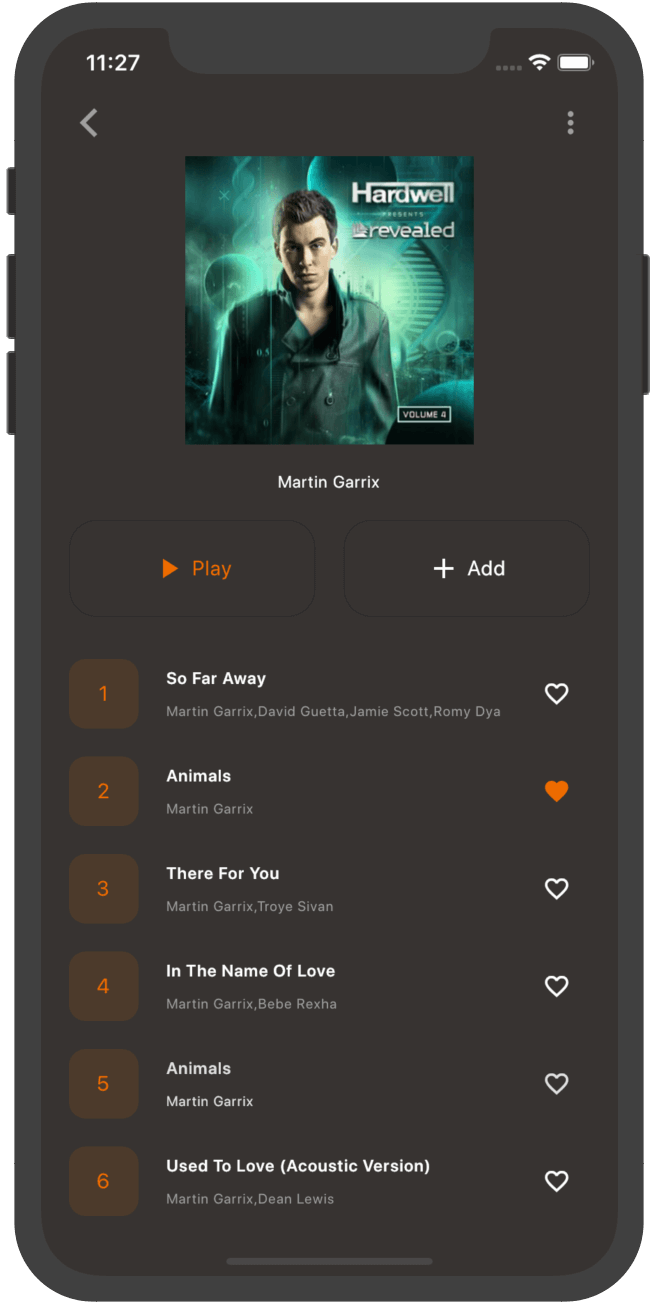
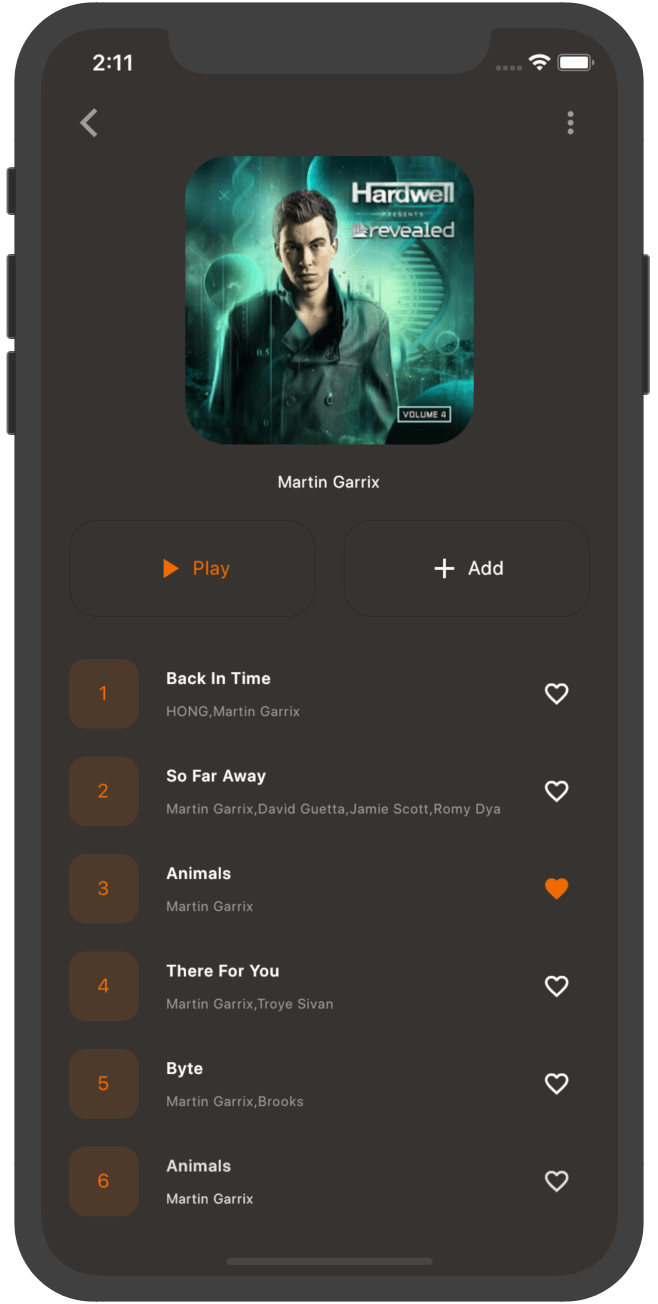
solve the song seek jumps sometimes and modify ui

diff --git a/lib/ui/widget/player_carousel.dart b/lib/ui/widget/player_carousel.dart
@@ -39,15 +39,16 @@ class Player extends StatefulWidget {
 class PlayerState extends State<Player> {
   Duration _duration;
   Duration _position;
-  num _slideValue;
   SongModel _songData;
   DownloadModel _downloadData;
+  bool _isSeeking = false;
 
   AudioPlayer _audioPlayer;
   AudioPlayerState _audioPlayerState;
   StreamSubscription _durationSubscription;
   StreamSubscription _positionSubscription;
   StreamSubscription _playerCompleteSubscription;
+  StreamSubscription _playerSeekSubscription;
   StreamSubscription _playerErrorSubscription;
   StreamSubscription _playerStateSubscription;
 
@@ -57,6 +58,7 @@ class PlayerState extends State<Player> {
     _positionSubscription?.cancel();
     _playerCompleteSubscription?.cancel();
     _playerErrorSubscription?.cancel();
+    _playerSeekSubscription?.cancel();
     _playerStateSubscription?.cancel();
     super.dispose();
   }
@@ -76,19 +78,11 @@ class PlayerState extends State<Player> {
     _audioPlayer = songData.audioPlayer;
     _position = _songData.position;
     _duration = _songData.duration;
-    _slideValue = _songData.slideValue;
     _durationSubscription = _audioPlayer.onDurationChanged.listen((duration) {
       if (!mounted) return;
       setState(() {
         _duration = duration;
-        _slideValue = (_position != null &&
-                _duration != null &&
-                _position.inSeconds > 0 &&
-                _position.inSeconds < _duration.inSeconds)
-            ? _position.inSeconds / _duration.inSeconds
-            : 0.0;
         _songData.setDuration(_duration);
-        _songData.setSlideValue(_slideValue);
       });
 
       // TODO implemented for iOS, waiting for android impl
@@ -112,16 +106,10 @@ class PlayerState extends State<Player> {
     _positionSubscription =
         _audioPlayer.onAudioPositionChanged.listen((position) {
       if (!mounted) return;
+      if (_isSeeking) return;
       setState(() {
         _position = position;
-        _slideValue = (_position != null &&
-                _duration != null &&
-                _position.inSeconds > 0 &&
-                _position.inSeconds < _duration.inSeconds)
-            ? _position.inSeconds / _duration.inSeconds
-            : 0.0;
         _songData.setPosition(_position);
-        _songData.setSlideValue(_slideValue);
       });
     });
 
@@ -132,6 +120,10 @@ class PlayerState extends State<Player> {
       //   _position = _duration;
       // });
       next();
+    });
+
+    _playerSeekSubscription = _audioPlayer.onSeekComplete.listen((finished) {
+      _isSeeking = false;
     });
 
     _playerErrorSubscription = _audioPlayer.onPlayerError.listen((msg) {
@@ -256,20 +248,28 @@ class PlayerState extends State<Player> {
       Visibility(
         visible: !_songData.showList,
         child: new Slider(
+          onChangeStart: (v) {
+            _isSeeking = true;
+          },
           onChanged: (value) {
             setState(() {
-              _slideValue = value;
+              _position =
+                  Duration(seconds: (_duration.inSeconds * value).round());
             });
           },
           onChangeEnd: (value) {
             setState(() {
-              _slideValue = value;
+              _position =
+                  Duration(seconds: (_duration.inSeconds * value).round());
             });
-            Duration seconds =
-                Duration(seconds: (_duration.inSeconds * value).round());
-            _audioPlayer.seek(seconds);
+            _audioPlayer.seek(_position);
           },
-          value: _slideValue ?? 0,
+          value: (_position != null &&
+                  _duration != null &&
+                  _position.inSeconds > 0 &&
+                  _position.inSeconds < _duration.inSeconds)
+              ? _position.inSeconds / _duration.inSeconds
+              : 0.0,
           activeColor: Theme.of(context).accentColor,
         ),
       ),

diff --git a/lib/ui/page/albums_page.dart b/lib/ui/page/albums_page.dart
@@ -22,12 +22,14 @@ class _AlbumsPageState extends State<AlbumsPage> {
           Expanded(
             child: ListView(
               children: <Widget>[
-                ClipRRect(
-                    borderRadius: BorderRadius.circular(30.0),
+                Center(
                     child: Container(
-                        width: MediaQuery.of(context).size.width * 0.5,
-                        height: MediaQuery.of(context).size.width * 0.5,
-                        child: Image.network(widget.data.pic))),
+                  width: MediaQuery.of(context).size.width * 0.5,
+                  height: MediaQuery.of(context).size.width * 0.5,
+                  child: ClipRRect(
+                      borderRadius: BorderRadius.circular(30.0),
+                      child: Container(child: Image.network(widget.data.pic))),
+                )),
                 SizedBox(height: 20.0),
                 Center(
                   child: Text(

diff --git a/lib/ui/page/player_page.dart b/lib/ui/page/player_page.dart
@@ -156,7 +156,7 @@ class _PlayPageState extends State<PlayPage> with TickerProviderStateMixin {
                                     MediaQuery.of(context).size.height * 0.01),
                             Text(
                               songModel.currentSong.title,
-                              style: TextStyle(fontSize: 25.0),
+                              style: TextStyle(fontSize: 20.0),
                             ),
                           ],
                         )

diff --git a/lib/config/net/base_api.dart b/lib/config/net/base_api.dart
@@ -24,7 +24,6 @@ class ApiInterceptor extends InterceptorsWrapper {
     debugPrint('---api-request--->url--> ${options.baseUrl}${options.path}' +
         ' queryParameters: ${options.queryParameters}' +
         ' data: ${options.data}');
-    //debugPrint('---api-request--->data--->${options.data}');
     return options;
   }
 

diff --git a/lib/model/song_model.dart b/lib/model/song_model.dart
@@ -49,12 +49,6 @@ class SongModel with ChangeNotifier {
     notifyListeners();
   }
 
-  num _slideValue;
-  num get slideValue => _slideValue;
-  setSlideValue(num slideValue) {
-    _slideValue = slideValue;
-  }
-
   int _currentSongIndex = 0;
 
   List<Song> get songs => _songs;
